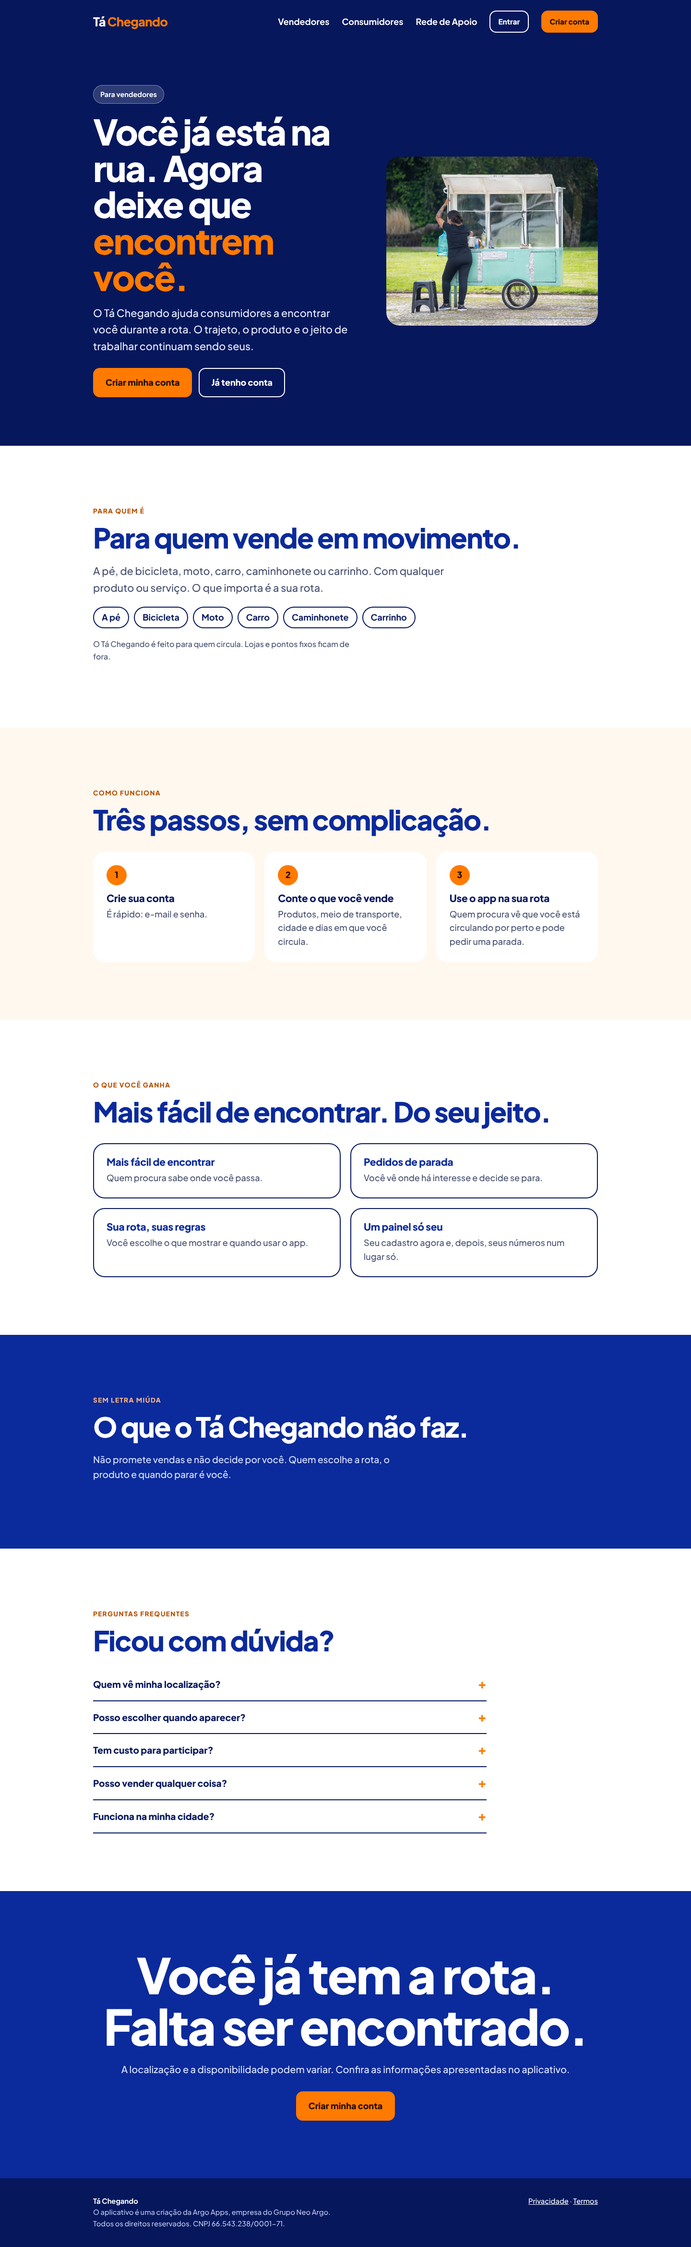
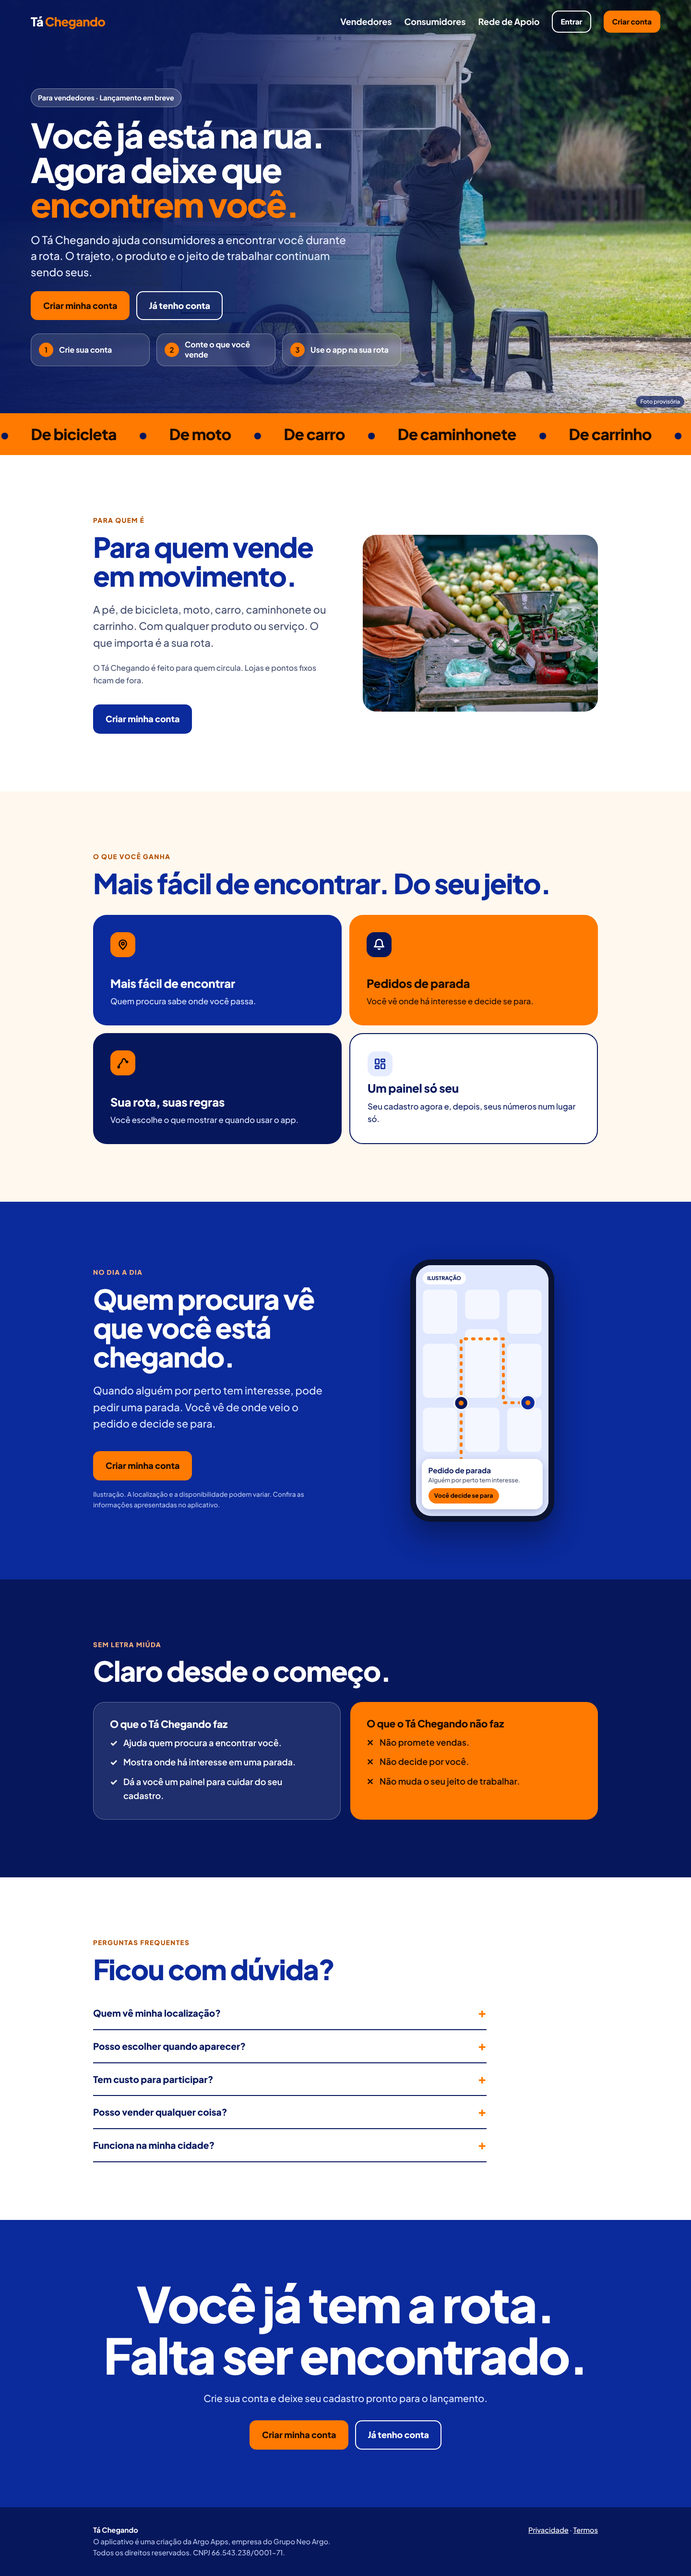
Vendedores: abertura igual à home e página mais rica
Claude-Session: https://claude.ai/code/session_01LcXxeUqSh6sDf9uFZcD67g

diff --git a/novo/vendedores.html b/novo/vendedores.html
@@ -11,59 +11,87 @@
 <link href="https://fonts.googleapis.com/css2?family=Plus+Jakarta+Sans:wght@500;600;700;800&display=swap" rel="stylesheet">
 <link rel="stylesheet" href="styles.css">
 </head>
-<body class="pg">
-<header class="top">
-  <a class="logo" href="index.html">Tá <i>Chegando</i></a>
-  <nav aria-label="Principal">
-    <a href="vendedores.html" aria-current="page">Vendedores</a><a href="consumidores.html">Consumidores</a><a href="rede-de-apoio.html">Rede de Apoio</a>
-    <a class="btn ln sm" href="entrar.html">Entrar</a><a class="btn or sm" href="entrar.html?modo=criar">Criar conta</a>
-  </nav>
-</header>
-
-<main>
-<section class="pg-hero"><div class="wrap">
-  <div>
-    <span class="selo">Para vendedores</span>
+<body>
+<section class="hero v-hero" style="--bg:url(img/hero-vendedores.jpg);--pos:center">
+  <header class="top">
+    <a class="logo" href="index.html">Tá <i>Chegando</i></a>
+    <nav aria-label="Principal">
+      <a href="vendedores.html" aria-current="page">Vendedores</a><a href="consumidores.html">Consumidores</a><a href="rede-de-apoio.html">Rede de Apoio</a>
+      <a class="btn ln sm" href="entrar.html">Entrar</a><a class="btn or sm" href="entrar.html?modo=criar">Criar conta</a>
+    </nav>
+  </header>
+  <div class="conteudo">
+    <span class="selo">Para vendedores · Lançamento em breve</span>
     <h1>Você já está na rua. Agora deixe que <em>encontrem você.</em></h1>
     <p class="sub">O Tá Chegando ajuda consumidores a encontrar você durante a rota. O trajeto, o produto e o jeito de trabalhar continuam sendo seus.</p>
     <div class="acoes"><a class="btn or" href="entrar.html?modo=criar">Criar minha conta</a><a class="btn ln" href="entrar.html">Já tenho conta</a></div>
+    <div class="passos-h">
+      <div><b>1</b><span>Crie sua conta</span></div>
+      <div><b>2</b><span>Conte o que você vende</span></div>
+      <div><b>3</b><span>Use o app na sua rota</span></div>
+    </div>
   </div>
-  <div class="foto"><img src="img/foto-1.jpg" alt="Vendedora ao lado do seu carrinho em um parque" width="1400" height="885"></div>
+  <span class="nota">Foto provisória</span>
+</section>
+
+<div class="faixa" aria-label="Para quem vende a pé, de bicicleta, moto, carro, caminhonete ou carrinho"><div class="trilho" aria-hidden="true">
+  <span>A pé</span><span>De bicicleta</span><span>De moto</span><span>De carro</span><span>De caminhonete</span><span>De carrinho</span>
+  <span>A pé</span><span>De bicicleta</span><span>De moto</span><span>De carro</span><span>De caminhonete</span><span>De carrinho</span>
+</div></div>
+
+<main>
+<section class="split"><div class="wrap grid">
+  <div>
+    <span class="eyebrow">Para quem é</span>
+    <h2>Para quem vende em movimento.</h2>
+    <p class="lead">A pé, de bicicleta, moto, carro, caminhonete ou carrinho. Com qualquer produto ou serviço. O que importa é a sua rota.</p>
+    <p class="nota-s">O Tá Chegando é feito para quem circula. Lojas e pontos fixos ficam de fora.</p>
+    <a class="btn az" href="entrar.html?modo=criar" style="margin-top:22px">Criar minha conta</a>
+  </div>
+  <div class="foto"><img loading="lazy" src="img/foto-135.jpg" alt="Mãos pesando limões em uma balança, em uma banca de rua" width="1400" height="933"></div>
 </div></section>
 
-<section class="paraquem"><div class="wrap">
-  <span class="eyebrow">Para quem é</span>
-  <h2>Para quem vende em movimento.</h2>
-  <p class="lead">A pé, de bicicleta, moto, carro, caminhonete ou carrinho. Com qualquer produto ou serviço. O que importa é a sua rota.</p>
-  <div class="meios" aria-label="Meios de locomoção"><span>A pé</span><span>Bicicleta</span><span>Moto</span><span>Carro</span><span>Caminhonete</span><span>Carrinho</span></div>
-  <p class="obs">O Tá Chegando é feito para quem circula. Lojas e pontos fixos ficam de fora.</p>
-</div></section>
-
-<section class="passos"><div class="wrap">
-  <span class="eyebrow">Como funciona</span>
-  <h2>Três passos, sem complicação.</h2>
-  <ol>
-    <li><h3>Crie sua conta</h3><p>É rápido: e-mail e senha.</p></li>
-    <li><h3>Conte o que você vende</h3><p>Produtos, meio de transporte, cidade e dias em que você circula.</p></li>
-    <li><h3>Use o app na sua rota</h3><p>Quem procura vê que você está circulando por perto e pode pedir uma parada.</p></li>
-  </ol>
-</div></section>
-
-<section class="ganha"><div class="wrap">
+<section class="beneficios"><div class="wrap">
   <span class="eyebrow">O que você ganha</span>
   <h2>Mais fácil de encontrar. Do seu jeito.</h2>
-  <div class="blocos">
-    <article class="bl"><h3>Mais fácil de encontrar</h3><p>Quem procura sabe onde você passa.</p></article>
-    <article class="bl"><h3>Pedidos de parada</h3><p>Você vê onde há interesse e decide se para.</p></article>
-    <article class="bl"><h3>Sua rota, suas regras</h3><p>Você escolhe o que mostrar e quando usar o app.</p></article>
-    <article class="bl"><h3>Um painel só seu</h3><p>Seu cadastro agora e, depois, seus números num lugar só.</p></article>
+  <div class="bento">
+    <article class="b1"><span class="ic"><svg width="26" height="26" viewBox="0 0 24 24" fill="none" stroke="#1a0a00" stroke-width="2.4" stroke-linecap="round" stroke-linejoin="round" aria-hidden="true"><path d="M12 21s-7-6.2-7-11a7 7 0 0114 0c0 4.8-7 11-7 11z"/><circle cx="12" cy="10" r="2.5"/></svg></span><h3>Mais fácil de encontrar</h3><p>Quem procura sabe onde você passa.</p></article>
+    <article class="b2"><span class="ic"><svg width="26" height="26" viewBox="0 0 24 24" fill="none" stroke="#fff" stroke-width="2.4" stroke-linecap="round" stroke-linejoin="round" aria-hidden="true"><path d="M18 8a6 6 0 10-12 0c0 7-3 8-3 8h18s-3-1-3-8"/><path d="M13.7 20a2 2 0 01-3.4 0"/></svg></span><h3>Pedidos de parada</h3><p>Você vê onde há interesse e decide se para.</p></article>
+    <article class="b3"><span class="ic"><svg width="26" height="26" viewBox="0 0 24 24" fill="none" stroke="#1a0a00" stroke-width="2.4" stroke-linecap="round" stroke-linejoin="round" aria-hidden="true"><path d="M4 20c0-6 4-6 6-10s0-6 4-6 2 5 6 6"/><circle cx="4" cy="20" r="1.5"/><circle cx="20" cy="10" r="1.5"/></svg></span><h3>Sua rota, suas regras</h3><p>Você escolhe o que mostrar e quando usar o app.</p></article>
+    <article class="b4"><span class="ic"><svg width="26" height="26" viewBox="0 0 24 24" fill="none" stroke="#0b2a9b" stroke-width="2.4" stroke-linecap="round" stroke-linejoin="round" aria-hidden="true"><rect x="3" y="3" width="7" height="9" rx="1.5"/><rect x="14" y="3" width="7" height="5" rx="1.5"/><rect x="14" y="12" width="7" height="9" rx="1.5"/><rect x="3" y="16" width="7" height="5" rx="1.5"/></svg></span><h3>Um painel só seu</h3><p>Seu cadastro agora e, depois, seus números num lugar só.</p></article>
   </div>
 </div></section>
 
-<section class="transp"><div class="wrap">
+<section class="celular"><div class="wrap grid">
+  <div>
+    <span class="eyebrow" style="color:#ffb680">No dia a dia</span>
+    <h2>Quem procura vê que você está chegando.</h2>
+    <p class="lead">Quando alguém por perto tem interesse, pode pedir uma parada. Você vê de onde veio o pedido e decide se para.</p>
+    <a class="btn or" href="entrar.html?modo=criar" style="margin-top:18px">Criar minha conta</a>
+    <p class="legenda">Ilustração. A localização e a disponibilidade podem variar. Confira as informações apresentadas no aplicativo.</p>
+  </div>
+  <div class="fone" role="img" aria-label="Ilustração de um celular mostrando uma rota e um pedido de parada">
+    <div class="tela">
+      <span class="tag">ILUSTRAÇÃO</span>
+      <svg viewBox="0 0 270 510" aria-hidden="true" preserveAspectRatio="xMidYMid slice">
+        <rect width="270" height="510" fill="#dfe7ff"/>
+        <g fill="#f4f7ff"><rect x="14" y="50" width="70" height="90" rx="10"/><rect x="100" y="50" width="70" height="60" rx="10"/><rect x="186" y="50" width="70" height="90" rx="10"/><rect x="14" y="160" width="70" height="110" rx="10"/><rect x="100" y="130" width="70" height="140" rx="10"/><rect x="186" y="160" width="70" height="110" rx="10"/><rect x="14" y="290" width="70" height="90" rx="10"/><rect x="100" y="290" width="70" height="90" rx="10"/><rect x="186" y="290" width="70" height="90" rx="10"/></g>
+        <path id="r" class="rota-a" d="M20 400 L92 400 L92 150 L178 150 L178 280 L228 280" fill="none" stroke="#ff7a00" stroke-width="6" stroke-linecap="round" stroke-linejoin="round"/>
+        <g transform="translate(228 280)"><circle class="pulso" r="16" fill="#0b2a9b" opacity=".5"/><circle r="15" fill="#0b2a9b" stroke="#fff" stroke-width="3"/><circle r="5" fill="#ff7a00"/></g>
+        <g><circle r="14" fill="#06175c" stroke="#fff" stroke-width="3"/><circle r="5" fill="#ff7a00"/><animateMotion dur="9s" repeatCount="indefinite" keyPoints="0;1" keyTimes="0;1" calcMode="linear"><mpath href="#r"/></animateMotion></g>
+      </svg>
+      <div class="card"><b>Pedido de parada</b><small>Alguém por perto tem interesse.</small><span>Você decide se para</span></div>
+    </div>
+  </div>
+</div></section>
+
+<section class="transp2"><div class="wrap">
   <span class="eyebrow" style="color:#ffb680">Sem letra miúda</span>
-  <h2>O que o Tá Chegando não faz.</h2>
-  <p>Não promete vendas e não decide por você. Quem escolhe a rota, o produto e quando parar é você.</p>
+  <h2>Claro desde o começo.</h2>
+  <div class="duas">
+    <div class="col faz"><h3>O que o Tá Chegando faz</h3><ul><li>Ajuda quem procura a encontrar você.</li><li>Mostra onde há interesse em uma parada.</li><li>Dá a você um painel para cuidar do seu cadastro.</li></ul></div>
+    <div class="col nao"><h3>O que o Tá Chegando não faz</h3><ul><li>Não promete vendas.</li><li>Não decide por você.</li><li>Não muda o seu jeito de trabalhar.</li></ul></div>
+  </div>
 </div></section>
 
 <section class="faq"><div class="wrap">
@@ -79,9 +107,9 @@
 </div></section>
 
 <section class="final"><div class="wrap">
-  <h2>Você já tem a rota. Falta ser encontrado.</h2>
-  <p>A localização e a disponibilidade podem variar. Confira as informações apresentadas no aplicativo.</p>
-  <div class="acoes"><a class="btn or" href="entrar.html?modo=criar">Criar minha conta</a></div>
+  <h2>Você já tem a rota.<br>Falta ser encontrado.</h2>
+  <p>Crie sua conta e deixe seu cadastro pronto para o lançamento.</p>
+  <div class="acoes"><a class="btn or" href="entrar.html?modo=criar">Criar minha conta</a><a class="btn ln" href="entrar.html">Já tenho conta</a></div>
 </div></section>
 </main>
 

diff --git a/novo/styles.css b/novo/styles.css
@@ -22,7 +22,7 @@ section{padding:clamp(64px,9vw,120px) 0}
 :focus-visible{outline:3px solid var(--laranja);outline-offset:3px;border-radius:6px}
 
 /* abertura */
-.hero{padding:0;position:relative;min-height:100vh;display:flex;flex-direction:column;overflow:hidden;color:#fff;background:var(--azul-esc) url(img/hero.jpg) 68% center/cover no-repeat}
+.hero{padding:0;position:relative;min-height:100vh;display:flex;flex-direction:column;overflow:hidden;color:#fff;background:var(--azul-esc) var(--bg,url(img/hero.jpg)) var(--pos,68% center)/var(--tam,cover) no-repeat}
 .hero::before{content:"";position:absolute;inset:0;background:linear-gradient(90deg,rgba(6,23,92,.96) 0%,rgba(6,23,92,.86) 36%,rgba(6,23,92,.25) 68%,rgba(6,23,92,0) 100%)}
 .hero>*{position:relative}
 header.top{display:flex;align-items:center;justify-content:space-between;padding:22px clamp(20px,5vw,64px);gap:16px}
@@ -195,3 +195,69 @@ input:focus{outline:3px solid var(--laranja);outline-offset:1px}
 @media(max-width:860px){.auth{grid-template-columns:1fr}.auth .lado-a{min-height:220px}.auth .lado-a h2{font-size:2rem}.auth .lado-a p{display:none}}
 .pg-hero .selo{display:inline-block}
 body.pg header.top{padding-inline:max(clamp(20px,5vw,64px),calc((100vw - var(--max))/2 + clamp(20px,5vw,64px)))}
+
+/* ===== página Vendedores (mesma abertura da home) ===== */
+.hero.v-hero .passos-h{display:grid;grid-template-columns:repeat(3,minmax(0,1fr));gap:14px;margin-top:36px;max-width:820px}
+.hero.v-hero .passos-h div{background:rgba(255,255,255,.12);border:1.5px solid rgba(255,255,255,.35);backdrop-filter:blur(8px);border-radius:18px;padding:16px 18px}
+.hero.v-hero .passos-h b{display:inline-grid;place-items:center;width:30px;height:30px;border-radius:50%;background:var(--laranja);color:#1a0a00;font-size:.95rem;margin-bottom:8px}
+.hero.v-hero .passos-h span{display:block;font-weight:700;font-size:1rem;line-height:1.3}
+.hero .acoes{display:flex;flex-wrap:wrap;gap:14px;margin-top:28px}
+.faixa{background:var(--laranja);color:#1a0a00;overflow:hidden;padding:18px 0}
+.faixa .trilho{display:flex;gap:44px;width:max-content;animation:corre 34s linear infinite;font-weight:800;font-size:clamp(1.3rem,2.4vw,2rem);letter-spacing:-.02em;white-space:nowrap}
+.faixa .trilho span::after{content:"•";margin-left:44px;color:var(--azul-esc)}
+@keyframes corre{to{transform:translateX(-50%)}}
+.split .grid{display:grid;grid-template-columns:1fr 1fr;gap:clamp(28px,5vw,72px);align-items:center}
+.split h2{color:var(--azul)}
+.split .foto{border-radius:28px;overflow:hidden;aspect-ratio:4/3;background:var(--azul-esc)}
+.split .foto img{width:100%;height:100%;object-fit:cover}
+.split .nota-s{color:var(--suave);font-size:1rem;margin-top:18px;max-width:32em}
+.beneficios{background:var(--creme)}
+.beneficios h2{color:var(--azul)}
+.bento{display:grid;grid-template-columns:repeat(6,1fr);gap:16px;margin-top:36px}
+.bento article{border-radius:28px;padding:clamp(24px,3vw,36px);display:flex;flex-direction:column;gap:12px;min-height:230px}
+.bento article h3{font-size:1.5rem;margin:0}
+.bento article p{margin:0;font-size:1.05rem}
+.bento .ic{width:52px;height:52px;border-radius:16px;display:grid;place-items:center;margin-bottom:auto}
+.bento .b1{grid-column:span 3;background:var(--azul);color:#fff}.bento .b1 .ic{background:var(--laranja)}
+.bento .b2{grid-column:span 3;background:var(--laranja);color:#1a0a00}.bento .b2 .ic{background:var(--azul-esc)}
+.bento .b3{grid-column:span 3;background:var(--azul-esc);color:#fff}.bento .b3 .ic{background:var(--laranja)}
+.bento .b4{grid-column:span 3;background:#fff;color:var(--azul-esc);border:2px solid var(--azul-esc)}.bento .b4 .ic{background:var(--azul-cl)}
+.bento .b1 p,.bento .b3 p{color:#dbe5ff}
+@media(max-width:820px){.bento article{grid-column:span 6!important}.split .grid,.hero.v-hero .passos-h{grid-template-columns:1fr}}
+.celular .grid{display:grid;grid-template-columns:1fr 1fr;gap:clamp(28px,6vw,88px);align-items:center}
+.celular{background:var(--azul);color:#fff}
+.celular h2{color:#fff}
+.celular .lead{color:#dbe5ff}
+.fone{width:min(300px,100%);margin:0 auto;background:#0a1330;border-radius:42px;padding:12px;box-shadow:0 30px 60px rgba(0,0,0,.35);position:relative}
+.fone .tela{border-radius:32px;overflow:hidden;background:#dfe7ff;aspect-ratio:9/17;position:relative}
+.fone svg{width:100%;height:100%;display:block}
+.fone .card{position:absolute;left:12px;right:12px;bottom:14px;background:#fff;border-radius:16px;padding:12px 14px;color:var(--azul-esc);box-shadow:0 6px 18px rgba(6,23,92,.25)}
+.fone .card b{display:block;font-size:.95rem}
+.fone .card small{display:block;color:var(--suave);font-size:.78rem;line-height:1.3}
+.fone .card span{display:inline-block;margin-top:8px;background:var(--laranja);color:#1a0a00;font-weight:800;font-size:.78rem;padding:6px 12px;border-radius:99px}
+.fone .tag{position:absolute;top:14px;left:14px;background:#fff;color:var(--azul-esc);font-weight:800;font-size:.68rem;padding:4px 10px;border-radius:99px}
+.rota-a{stroke-dasharray:3 12;animation:fluxo 1.2s linear infinite}
+@keyframes fluxo{to{stroke-dashoffset:-15}}
+.pulso{transform-box:fill-box;transform-origin:center;animation:pulso 2s ease-out infinite}
+@keyframes pulso{from{transform:scale(.4);opacity:.7}to{transform:scale(2.2);opacity:0}}
+.celular .legenda{font-size:.85rem;color:#b9c6ee;margin-top:18px}
+@media(max-width:860px){.celular .grid{grid-template-columns:1fr}}
+.transp2{background:var(--azul-esc);color:#fff}
+.transp2 h2{color:#fff}
+.transp2 .duas{display:grid;grid-template-columns:1fr 1fr;gap:20px;margin-top:34px}
+.transp2 .col{border-radius:24px;padding:clamp(22px,3vw,34px)}
+.transp2 .faz{background:rgba(255,255,255,.1);border:1.5px solid rgba(255,255,255,.3)}
+.transp2 .nao{background:var(--laranja);color:#1a0a00}
+.transp2 .col h3{margin-bottom:14px}
+.transp2 ul{margin:0;padding:0;list-style:none;display:grid;gap:12px;font-weight:600}
+.transp2 li{display:flex;gap:12px}
+.transp2 li::before{content:"✓";font-weight:800}
+.transp2 .nao li::before{content:"✕"}
+@media(max-width:820px){.transp2 .duas{grid-template-columns:1fr}}
+@media(prefers-reduced-motion:reduce){.faixa .trilho,.rota-a,.pulso{animation:none!important}}
+.hero.v-hero h1{font-size:clamp(2.3rem,5vw,4.4rem);max-width:13em}
+.hero.v-hero .conteudo{padding-bottom:28px}
+.hero.v-hero .passos-h{margin-top:28px}
+.hero.v-hero .passos-h div{padding:12px 16px;display:flex;align-items:center;gap:12px}
+.hero.v-hero .passos-h b{margin:0;flex:none}
+.hero.v-hero .acoes{margin-top:22px}
